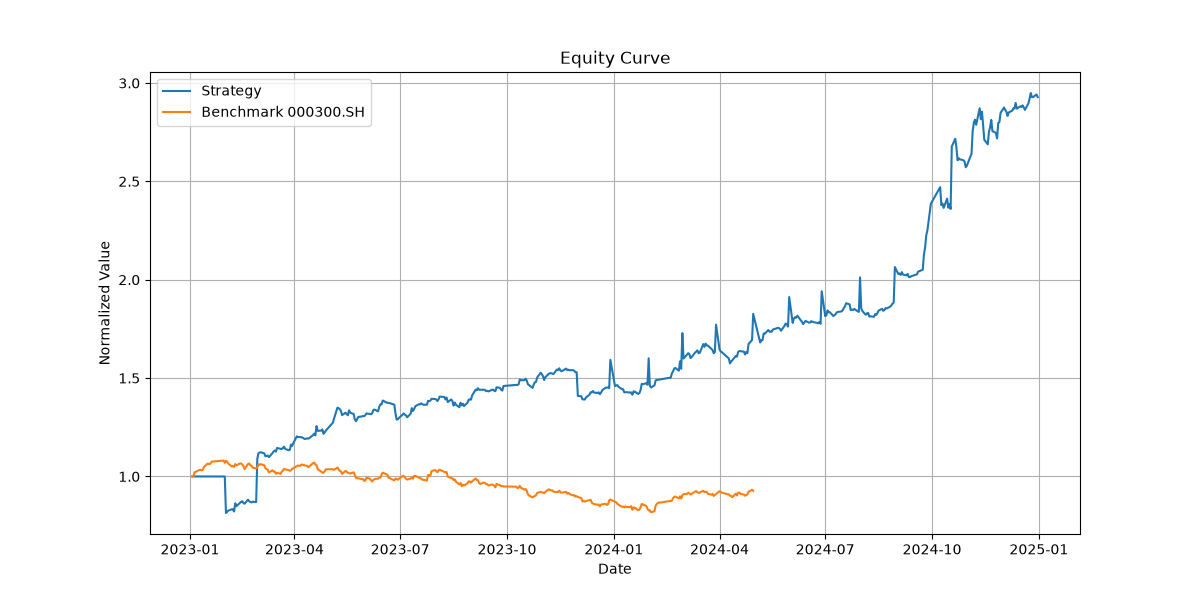
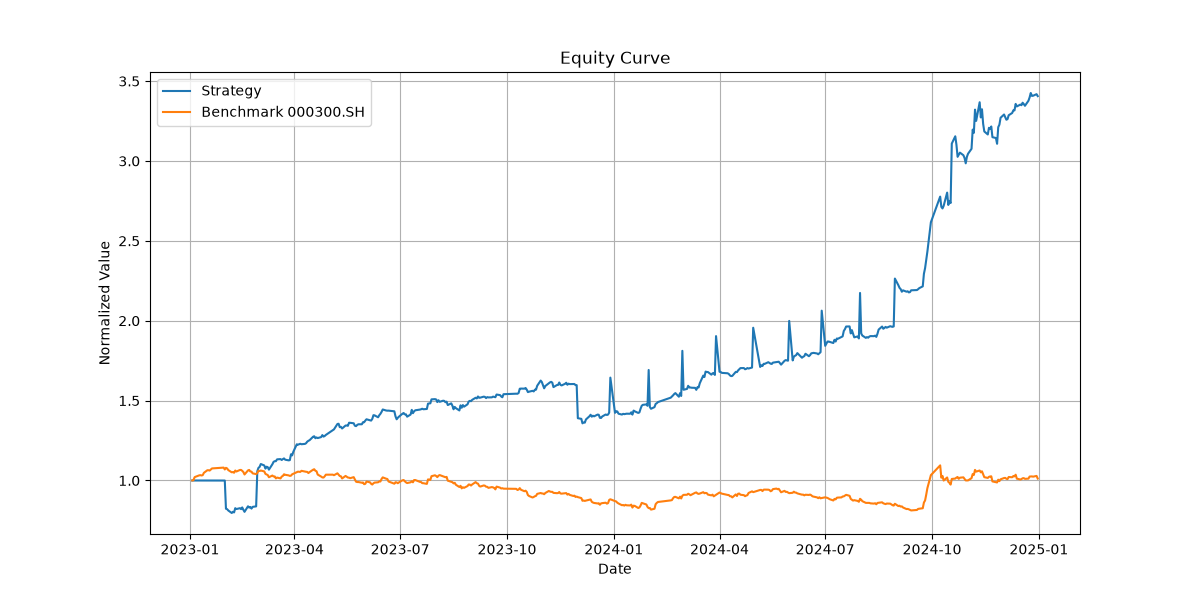
docs: update README with full-factor backtest results and refresh equity curve
- Replace baseline table with 2023-2024 full-factor rolling backtest results.
- Refresh equity curve screenshot from latest full-factor run.

diff --git a/README.md b/README.md
@@ -82,19 +82,21 @@ python -m aifa_quant.cli.main backtest --start 20240101 --end 20241231 --top-k 5
 
 ## 最新回测结果（示例）
 
-上证 50 成分股，2023–2024，技术面因子滚动训练，TopK=5，调仓频率 5 日：
+### 技术面 + 基本面 + 宏观因子（全因子）
+
+上证 50 成分股，2023–2024，滚动训练，TopK=5，调仓频率 5 日：
 
 | 指标 | 数值 |
 |------|------|
-| 总收益率 | 192.82% |
-| 年化收益率 | 74.96% |
-| 年化波动率 | 39.82% |
-| 夏普比率 | 1.882 |
-| 最大回撤 | -18.59% |
-| 日胜率 | 52.38% |
-| 沪深 300 基准收益 | -7.29% |
-| 超额收益 | 200.11% |
-| 超额夏普 | 1.531 |
+| 总收益率 | 240.60% |
+| 年化收益率 | 89.29% |
+| 年化波动率 | 52.43% |
+| 夏普比率 | 1.703 |
+| 最大回撤 | -20.35% |
+| 日胜率 | 56.11% |
+| 沪深 300 基准收益 | 1.21% |
+| 超额收益 | 239.39% |
+| 超额夏普 | 1.490 |
 
 ### 净值曲线
 